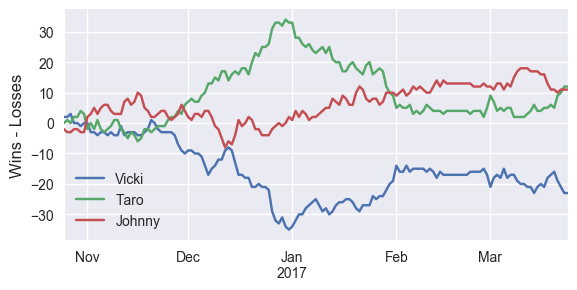
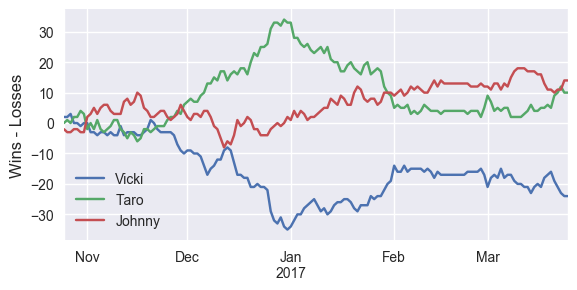
update 3/25

diff --git a/index.html b/index.html
@@ -35,7 +35,7 @@
 <a id="the-bet-is-on" class="anchor" href="#the-bet-is-on" aria-hidden="true"><span aria-hidden="true" class="octicon octicon-link"></span></a>The bet is on.</h1>
 
 <h1>
-<a id="current-winner-of-2016-17-season" class="anchor" href="#current-winner-of-2016-17-season" aria-hidden="true"><span aria-hidden="true" class="octicon octicon-link"></span></a>Current winner of 2016-17 Season (as of 3/24/2017):</h1>
+<a id="current-winner-of-2016-17-season" class="anchor" href="#current-winner-of-2016-17-season" aria-hidden="true"><span aria-hidden="true" class="octicon octicon-link"></span></a>Current winner of 2016-17 Season (as of 3/25/2017):</h1>
 
 <h2>
 <a id="none" class="anchor" href="#none" aria-hidden="true"><span aria-hidden="true" class="octicon octicon-link"></span></a><strong>Johnny</strong>
@@ -44,23 +44,23 @@
 <h2>
 <a id="johnny" class="anchor" href="Johnny.html" aria-hidden="true"><span aria-hidden="true" class="octicon octicon-link"></span>Johnny</a></h2>
 
-<p>Wins: 362<br>
-Losses: 351<br>
-Remaining wins available: 91</p>
+<p>Wins: 368<br>
+Losses: 354<br>
+Remaining wins available: 85</p>
 
 <h2>
 <a id="taro" class="anchor" href="Taro.html" aria-hidden="true"><span aria-hidden="true" class="octicon octicon-link"></span>Taro</a></h2>
 
-<p>Wins: 362<br>
-Losses: 350<br>
-Remaining wins available: 96</p>
+<p>Wins: 364<br>
+Losses: 354<br>
+Remaining wins available: 92</p>
 
 <h2>
 <a id="vicki" class="anchor" href="Vicki.html" aria-hidden="true"><span aria-hidden="true" class="octicon octicon-link"></span>Vicki</a></h2>
 
-<p>Wins: 346<br>
-Losses: 369<br>
-Remaining wins available: 89</p>
+<p>Wins: 348<br>
+Losses: 372<br>
+Remaining wins available: 85</p>
 
 <img src='pythoncode/win_percent.png' alt='Winning Percentage Over Time'>
 <h1>

diff --git a/Johnny.html b/Johnny.html
@@ -35,9 +35,9 @@
 
 <h2>Johnny</h2>
 
-<p>Wins: 362<br>
-Losses: 351<br>
-Remaining wins available: 91</p>
+<p>Wins: 368<br>
+Losses: 354<br>
+Remaining wins available: 85</p>
 
 <h2> Current teams </h2>
 <table border="1">
@@ -49,45 +49,45 @@ Remaining wins available: 91</p>
 </tr>
 <tr>
 <td>Bucks</td>
-<td>36</td>
+<td>37</td>
 <td>35</td>
-<td>11</td>
+<td>10</td>
 </tr>
 <tr>
 <td>Warriors</td>
-<td>57</td>
+<td>58</td>
 <td>14</td>
-<td>11</td>
+<td>10</td>
 </tr>
 <tr>
 <td>Timberwolves</td>
 <td>28</td>
-<td>42</td>
-<td>12</td>
+<td>43</td>
+<td>11</td>
 </tr>
 <tr>
 <td>Hawks</td>
 <td>37</td>
-<td>34</td>
-<td>11</td>
+<td>35</td>
+<td>10</td>
 </tr>
 <tr>
 <td>Celtics</td>
-<td>46</td>
+<td>47</td>
 <td>26</td>
-<td>10</td>
+<td>9</td>
 </tr>
 <tr>
 <td>Pistons</td>
 <td>34</td>
-<td>38</td>
-<td>10</td>
+<td>39</td>
+<td>9</td>
 </tr>
 <tr>
 <td>Nuggets</td>
-<td>34</td>
+<td>35</td>
 <td>37</td>
-<td>11</td>
+<td>10</td>
 </tr>
 <tr>
 <td>Jazz</td>
@@ -97,15 +97,15 @@ Remaining wins available: 91</p>
 </tr>
 <tr>
 <td>Lakers</td>
-<td>20</td>
+<td>21</td>
 <td>51</td>
-<td>11</td>
+<td>10</td>
 </tr>
 <tr>
 <td>Magic</td>
-<td>26</td>
+<td>27</td>
 <td>46</td>
-<td>10</td>
+<td>9</td>
 </tr>
 </table>
 

diff --git a/Taro.html b/Taro.html
@@ -35,9 +35,9 @@
 
 <h2>Taro</h2>
 
-<p>Wins: 362<br>
-Losses: 350<br>
-Remaining wins available: 96</p>
+<p>Wins: 364<br>
+Losses: 354<br>
+Remaining wins available: 92</p>
 
 <h2> Current teams </h2>
 <table border="1">
@@ -56,8 +56,8 @@ Remaining wins available: 96</p>
 <tr>
 <td>Nets</td>
 <td>15</td>
-<td>56</td>
-<td>11</td>
+<td>57</td>
+<td>10</td>
 </tr>
 <tr>
 <td>Thunder</td>
@@ -80,32 +80,32 @@ Remaining wins available: 96</p>
 <tr>
 <td>Hornets</td>
 <td>32</td>
-<td>39</td>
-<td>11</td>
+<td>40</td>
+<td>10</td>
 </tr>
 <tr>
 <td>Rockets</td>
-<td>49</td>
+<td>50</td>
 <td>22</td>
-<td>11</td>
+<td>10</td>
 </tr>
 <tr>
 <td>Wizards</td>
-<td>43</td>
+<td>44</td>
 <td>28</td>
-<td>11</td>
+<td>10</td>
 </tr>
 <tr>
 <td>Kings</td>
 <td>27</td>
-<td>44</td>
-<td>11</td>
+<td>45</td>
+<td>10</td>
 </tr>
 <tr>
 <td>Pelicans</td>
 <td>30</td>
-<td>41</td>
-<td>11</td>
+<td>42</td>
+<td>10</td>
 </tr>
 </table>
 

diff --git a/Vicki.html b/Vicki.html
@@ -35,9 +35,9 @@
 
 <h2>Vicki</h2>
 
-<p>Wins: 346<br>
-Losses: 369<br>
-Remaining wins available: 89</p>
+<p>Wins: 348<br>
+Losses: 372<br>
+Remaining wins available: 85</p>
 
 <h2> Current teams </h2>
 <table border="1">
@@ -67,21 +67,21 @@ Remaining wins available: 89</p>
 </tr>
 <tr>
 <td>Cavaliers</td>
-<td>46</td>
+<td>47</td>
 <td>24</td>
-<td>12</td>
+<td>11</td>
 </tr>
 <tr>
 <td>Bulls</td>
 <td>34</td>
-<td>38</td>
-<td>10</td>
+<td>39</td>
+<td>9</td>
 </tr>
 <tr>
 <td>76ers</td>
-<td>26</td>
+<td>27</td>
 <td>45</td>
-<td>11</td>
+<td>10</td>
 </tr>
 <tr>
 <td>Grizzlies</td>
@@ -98,14 +98,14 @@ Remaining wins available: 89</p>
 <tr>
 <td>Suns</td>
 <td>22</td>
-<td>50</td>
-<td>10</td>
+<td>51</td>
+<td>9</td>
 </tr>
 <tr>
 <td>Pacers</td>
 <td>36</td>
-<td>35</td>
-<td>11</td>
+<td>36</td>
+<td>10</td>
 </tr>
 </table>
 
